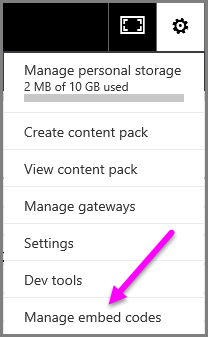
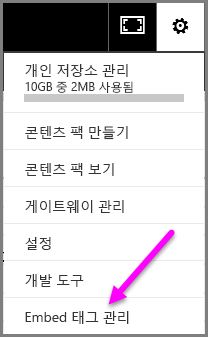
commit translated contents

diff --git a/powerbi-docs/consumer/mobile/mobile-app-windows-10-ssrs-kpis-mobile-reports.md b/powerbi-docs/consumer/mobile/mobile-app-windows-10-ssrs-kpis-mobile-reports.md
@@ -5,22 +5,22 @@ author: paulinbar
 ms.service: powerbi
 ms.subservice: powerbi-mobile
 ms.topic: conceptual
-ms.date: 03/09/2020
+ms.date: 05/19/2020
 ms.author: painbar
-ms.openlocfilehash: 67daafc0938216b135b31d3190c191402e9a10de
-ms.sourcegitcommit: 7aa0136f93f88516f97ddd8031ccac5d07863b92
+ms.openlocfilehash: 28353ec6d0b2f8a1f83544d63526748c621cb858
+ms.sourcegitcommit: 250242fd6346b60b0eda7a314944363c0bacaca8
 ms.translationtype: HT
 ms.contentlocale: ko-KR
-ms.lasthandoff: 05/05/2020
-ms.locfileid: "79435378"
+ms.lasthandoff: 05/20/2020
+ms.locfileid: "83694104"
 ---
 # <a name="view-on-premises-reports-and-kpis-in-the-power-bi-windows-app"></a>Power BI Windows 앱에서 온-프레미스 보고서 및 KPI 보기
 SQL Server 2016 Reporting Services에서 Windows 10용 Power BI 앱은 중요한 온-프레미스 비즈니스 정보에 대한 터치 기반의 라이브 모바일 액세스를 제공합니다. 
 
-![Reporting Services 모바일 보고서](././media/mobile-app-windows-10-ssrs-kpis-mobile-reports/power-bi-ssrs-mobile-report.png)
+![Reporting Services 모바일 보고서](media/mobile-app-windows-10-ssrs-kpis-mobile-reports/power-bi-ssrs-mobile-report.png)
 
 ## <a name="first-things-first"></a>먼저 수행할 중요한 작업
-SQL Server 2016 Enterprise Edition 모바일 보고서 게시자를 사용하여 [Reporting Services 모바일 보고서를 만들고](https://msdn.microsoft.com/library/mt652547.aspx)[Reporting Services 웹 포털](https://msdn.microsoft.com/library/mt637133.aspx)에 게시합니다. 웹 포털에 KPI를 만듭니다. 폴더에 정리하고 쉽게 찾을 수 있도록 즐겨찾기를 표시합니다. 
+SQL Server 2016 Enterprise Edition 모바일 보고서 게시자를 사용하여 [Reporting Services 모바일 보고서를 만들고](/sql/reporting-services/mobile-reports/create-mobile-reports-with-sql-server-mobile-report-publisher)[Reporting Services 웹 포털](/sql/reporting-services/web-portal-ssrs-native-mode)에 게시합니다. 웹 포털에 KPI를 만듭니다. 폴더에 정리하고 쉽게 찾을 수 있도록 즐겨찾기를 표시합니다. 
 
 그런 다음, Windows 10용 Power BI 앱에서 폴더에 정리되어 있거나 즐겨찾기에 모아놓은 KPS, 모바일 보고서 및 Power BI 고보서를 봅니다. 
 
@@ -34,18 +34,18 @@ SQL Server 2016 Enterprise Edition 모바일 보고서 게시자를 사용하여
 Reporting Services 웹 포털에 대한 액세스가 없더라도, Reporting Services 모바일 보고서의 기능을 탐색할 수 있습니다.
 
 1. Windows 10 디바이스에서 Power BI 앱을 엽니다.
-2. 왼쪽 위 모퉁이에서 전역 탐색 단추 ![전역 탐색 단추](././media/mobile-app-windows-10-ssrs-kpis-mobile-reports/powerbi_windows10_options_icon.png) 를 탭합니다.
-3. **설정** 아이콘 ![설정 아이콘](./././media/mobile-app-windows-10-ssrs-kpis-mobile-reports/power-bi-settings-icon.png)을 탭하고 **서버에 연결**을 마우스 오른쪽 단추로 클릭하거나 탭한 채로 유지한 다음 **샘플 보기**를 탭합니다.
+2. 왼쪽 위 모퉁이에서 전역 탐색 단추 ![전역 탐색 단추](media/mobile-app-windows-10-ssrs-kpis-mobile-reports/powerbi_windows10_options_icon.png) 를 탭합니다.
+3. **설정** 아이콘 ![설정 아이콘](media/mobile-app-windows-10-ssrs-kpis-mobile-reports/power-bi-settings-icon.png)을 탭하고 **서버에 연결**을 마우스 오른쪽 단추로 클릭하거나 탭한 채로 유지한 다음 **샘플 보기**를 탭합니다.
    
-   ![SSRS 샘플 보기](./media/mobile-app-windows-10-ssrs-kpis-mobile-reports/power-bi-win10-connect-ssrs-samples.png)
+   ![SSRS 샘플 보기](media/mobile-app-windows-10-ssrs-kpis-mobile-reports/power-bi-win10-connect-ssrs-samples.png)
 4. 소매 보고서 또는 판매 보고서 폴더를 열어 KPI 및 모바일 보고서를 탐색합니다.
    
-   ![샘플 KPI 및 모바일 보고서](./media/mobile-app-windows-10-ssrs-kpis-mobile-reports/power-bi-win10-ssrs-sample-kpis.png)
+   ![샘플 KPI 및 모바일 보고서](media/mobile-app-windows-10-ssrs-kpis-mobile-reports/power-bi-win10-ssrs-sample-kpis.png)
 
 KPI 및 모바일 보고서와 상호 작용할 샘플을 찾아봅니다.
 
 ## <a name="connect-to-a-reporting-services-report-server"></a>Reporting Services 보고서 서버에 연결
-1. 탐색 창의 아래쪽에서 **설정** ![설정 아이콘](./././media/mobile-app-windows-10-ssrs-kpis-mobile-reports/power-bi-settings-icon.png)을 탭합니다.
+1. 탐색 창의 아래쪽에서 **설정** ![설정 아이콘](media/mobile-app-windows-10-ssrs-kpis-mobile-reports/power-bi-settings-icon.png)을 탭합니다.
 2. **서버에 연결**을 탭합니다.
 3. 서버 주소, 사용자 이름, 암호를 입력합니다. 서버 주소에 대해 다음 형식을 사용합니다.
    
@@ -61,30 +61,33 @@ KPI 및 모바일 보고서와 상호 작용할 샘플을 찾아봅니다.
    
    이제 탐색 창에 서버가 표시됩니다.
    
-   ![탐색 창의 서버](./media/mobile-app-windows-10-ssrs-kpis-mobile-reports/power-bi-ssrs-mobile-report-server.png)
+   ![탐색 창의 서버](media/mobile-app-windows-10-ssrs-kpis-mobile-reports/power-bi-ssrs-mobile-report-server.png)
    
    >[!TIP]
-   >언제든지 전역 탐색 단추 ![전역 탐색 단추](././media/mobile-app-windows-10-ssrs-kpis-mobile-reports/powerbi_windows10_options_icon.png)를 탭하면 Power BI 서비스에서 Reporting Services 모바일 보고서와 대시보드 간에 이동할 수 있습니다. 
+   >언제든지 전역 탐색 단추 ![전역 탐색 단추](media/mobile-app-windows-10-ssrs-kpis-mobile-reports/powerbi_windows10_options_icon.png)를 탭하면 Power BI 서비스에서 Reporting Services 모바일 보고서와 대시보드 간에 이동할 수 있습니다. 
    > 
+
+   >[!NOTE]
+   >사용자 지정 포트가 구성된 보고서 서버는 지원되지 않으며 Power BI Windows 앱에서 액세스할 수 없습니다. 
 
 ## <a name="view-reporting-services-kpis-and-mobile-reports-in-the-power-bi-app"></a>Power BI 앱에서 Reporting Services KPI와 모바일 보고서 보기
 Reporting Services KPI, 모바일 보고서 및 Power BI 보고서(미리 보기)는 Reporting Services 웹 포털에서와 동일한 폴더에 표시됩니다.
 
-![보고서 폴더](./media/mobile-app-windows-10-ssrs-kpis-mobile-reports/power-bi-ssrs-mobile-report-folders.png)
+![보고서 폴더](media/mobile-app-windows-10-ssrs-kpis-mobile-reports/power-bi-ssrs-mobile-report-folders.png)
 
 * 포커스 모드로 보려면 KPI를 누릅니다.
   
-    ![포커스 모드의 KPI](./media/mobile-app-windows-10-ssrs-kpis-mobile-reports/power-bi-ssrs-mobile-report-kpis.png)
-* 모바일 보고서를 탭하여 Power BI 앱에서 열고 상호 작용합니다.
+    ![포커스 모드의 KPI](media/mobile-app-windows-10-ssrs-kpis-mobile-reports/power-bi-ssrs-mobile-report-kpis.png)
+* 모바일 보고서를 눌러서 열고 Power BI 앱에서 상호 작용합니다.
   
-    ![Reporting Services 모바일 보고서](././media/mobile-app-windows-10-ssrs-kpis-mobile-reports/power-bi-ssrs-mobile-report.png)
+    ![Reporting Services 모바일 보고서](media/mobile-app-windows-10-ssrs-kpis-mobile-reports/power-bi-ssrs-mobile-report.png)
 
 ## <a name="view-your-favorite-kpis-and-reports"></a>즐겨찾는 KPI 및 보고서 보기
 Reporting Services 웹 포털에 KPI, 모바일 보고서 및 Power BI 보고서를 즐겨찾기로 표시해 놓으면 Windows 10 디바이스에서 Power BI 즐겨찾기 대시보드와 보고서를 통해 한 폴더에서 편리하게 볼 수 있습니다.
 
 * **즐겨찾기**를 누릅니다.
   
-   ![즐겨찾기 아이콘](./media/mobile-app-windows-10-ssrs-kpis-mobile-reports/power-bi-ssrs-mobile-report-favorite-menu.png)
+   ![즐겨찾기 아이콘](media/mobile-app-windows-10-ssrs-kpis-mobile-reports/power-bi-ssrs-mobile-report-favorite-menu.png)
   
    웹 포털의 즐겨찾기가 이 페이지에 모두 있습니다.
   
@@ -93,20 +96,19 @@ Reporting Services 웹 포털에 KPI, 모바일 보고서 및 Power BI 보고서
 ## <a name="remove-a-connection-to-a-report-server"></a>보고서 서버에 대한 연결을 제거합니다.
 Power BI 모바일 앱에서 한 번에 하나의 보고서 서버에 연결될 수 있습니다. 다른 서버에 연결하려는 경우 현재 서버에서 분리해야 합니다.
 
-1. 탐색 창의 아래쪽에서 **설정** ![설정 아이콘](./././media/mobile-app-windows-10-ssrs-kpis-mobile-reports/power-bi-settings-icon.png)을 탭합니다.
+1. 탐색 창의 아래쪽에서 **설정** ![설정 아이콘](media/mobile-app-windows-10-ssrs-kpis-mobile-reports/power-bi-settings-icon.png)을 탭합니다.
 2. 연결하지 않을 서버 이름을 탭한 채로 있습니다.
 3. **서버 제거**를 탭합니다.
    
-    ![서버 제거](./media/mobile-app-windows-10-ssrs-kpis-mobile-reports/power-bi-windows-10-ssrs-remove-server-menu.png)
+    ![서버 제거](media/mobile-app-windows-10-ssrs-kpis-mobile-reports/power-bi-windows-10-ssrs-remove-server-menu.png)
 
 ## <a name="create-reporting-services-mobile-reports-and-kpis"></a>Reporting Services 모바일 보고서 및 KPI 만들기
 Power BI 모바일 앱에서 Reporting Services KPI와 모바일 보고서를 만들지 않습니다. SQL Server 모바일 보고서 게시자 및 SQL Server 2016 Reporting Services 웹 포털에서 만듭니다.
 
-* [Reporting Services 모바일 보고서를 만들](https://msdn.microsoft.com/library/mt652547.aspx)어서, Reporting Services 웹 포털에 게시합니다.
-* [Reporting Services 웹 포털에서 KPI](https://msdn.microsoft.com/library/mt683632.aspx)를 만듭니다.
+* [Reporting Services 모바일 보고서를 만들](/sql/reporting-services/mobile-reports/create-mobile-reports-with-sql-server-mobile-report-publisher)어서, Reporting Services 웹 포털에 게시합니다.
+* [Reporting Services 웹 포털에서 KPI](/sql/reporting-services/working-with-kpis-in-reporting-services)를 만듭니다.
 
 ## <a name="next-steps"></a>다음 단계
 * [Windows 10용 Power BI 모바일 앱 시작](mobile-windows-10-phone-app-get-started.md)  
 * [Power BI란?](../../fundamentals/power-bi-overview.md)  
-* 질문이 있으신가요? [Power BI 커뮤니티에 질문합니다.](https://community.powerbi.com/)
-
+* 궁금한 점이 더 있나요? [Power BI 커뮤니티에 질문합니다.](https://community.powerbi.com/)

diff --git a/powerbi-docs/guidance/whitepapers.md b/powerbi-docs/guidance/whitepapers.md
@@ -6,33 +6,32 @@ ms.reviewer: ''
 ms.service: powerbi
 ms.subservice: powerbi-service
 ms.topic: conceptual
-ms.date: 05/19/2020
+ms.date: 05/27/2020
 ms.author: maggies
-ms.openlocfilehash: 98b5323efa8b6c6c0e1d6f1dbab640fe5f4cae4c
-ms.sourcegitcommit: 250242fd6346b60b0eda7a314944363c0bacaca8
+ms.openlocfilehash: f0bf8edc3c954bf5c79d76c1a3bdba1a08ae40ae
+ms.sourcegitcommit: a7b142685738a2f26ae0a5fa08f894f9ff03557b
 ms.translationtype: MT
 ms.contentlocale: ko-KR
-ms.lasthandoff: 05/20/2020
-ms.locfileid: "83693976"
+ms.lasthandoff: 05/28/2020
+ms.locfileid: "84121091"
 ---
 # <a name="whitepapers-for-power-bi"></a>Power BI용 백서
 
 백서를 통해 Power BI 항목을 보다 자세히 탐색할 수 있습니다. 여기에서 Power BI에 대해 제공되는 백서 목록을 확인할 수 있습니다.
 
-| 백서 | 설명 | Date |
+| 백서 | Description | 날짜 |
 | --- | --- | --- |
 | [Power BI Enterprise 배포 계획](https://aka.ms/PBIEnterpriseDeploymentWP) |이 업데이트 된 기술 백서는 잘 작동 하 고 안전한 조직 Power BI 배포에 대 한 고려 사항 및 모범 사례를 간략하게 설명 합니다. | 2020년 5월 |
 | [Power BI 및 데이터 흐름](https://go.microsoft.com/fwlink/?linkid=2034388&clcid=0x409)| 이 백서에서는 데이터 흐름의 기술 정보를 자세히 설명하고 데이터 흐름의 특징 및 기능의 기반이 되는 역량과 이니셔티브를 설명합니다. | 2018년 11월 |
 | [Microsoft Power BI 프리미엄](https://aka.ms/pbipremiumwhitepaper) |시작될 때의 모습과 확대 방식 등, Power BI 프리미엄을 설명합니다. | 2017년 10월 |
-| [Power BI Premium 계획 및 배포](whitepaper-powerbi-premium-deployment.md)| 이 문서는 잘 정의된 워크로드를 위한 프리미엄 용량을 계획하고 배포하기 위한 지침과 모범 사례를 제공합니다.| 2019년 3월 |
-| [Power BI 프리미엄을 사용한 Embedded Analytics에 대한 용량 계획](https://aka.ms/pbiewhitepaper) |이 문서는 앱 개발자/ISV에게 해당 비즈니스에 대한 가장 적절한 용량을 결정하기 위한 지침을 제공합니다. | 2017년 10월 |
+| [Power BI Premium 계획 및 배포](whitepaper-powerbi-premium-deployment.md)| 이 백서의 내용은 일반 지침에 통합 되었습니다. 잘 정의 된 작업을 위해 프리미엄 용량을 계획 하 고 배포 하는 방법에 대 한 지침 및 모범 사례는 링크를 참조 하세요.| 2019년 3월 |
 | [Power BI Report Server에 대한 용량 계획 지침](../report-server/capacity-planning.md) |이 문서는 보고서 서버에 대한 다양한 워크로드의 다양한 부하 테스트 실행 결과를 공유하여 Power BI 보고서 서버의 용량 계획에 대한 지침을 제공하려고 합니다. | 2018년 3월 |
 | [보안](../admin/service-admin-power-bi-security.md) |Power BI 내 보안에 대한 자세한 설명을 제공합니다. | 2019년 3월 |
 | [Azure Active Directory B2B를 사용하여 외부 게스트 사용자에게 Power BI 콘텐츠 배포](../guidance/whitepaper-azure-b2b-power-bi.md)|이 문서에서는 AAD B2B(Azure Active Directory Business-to-business)의 통합을 사용하여 콘텐츠를 조직 외부 사용자에게 배포하는 방법을 간략히 설명합니다.| 2019년 3월 |
 | [Power BI를 사용한 고급 분석](https://info.microsoft.com/advanced-analytics-with-power-bi.html?Is=Website) |예측 분석, 사용자 지정 시각화, R 통합 및 데이터 분석 식을 비롯한 Power BI의 고급 분석 기능을 설명합니다. | 2017년 2월 |
 | [양방향 필터링](../transform-model/desktop-bidirectional-filtering.md) |Power BI Desktop에서 양방향 교차 필터링에 대해 설명합니다(이 백서에서는 SQL Server Analysis Services 2016에 대해서도 다루며 둘 다 동작은 동일합니다). | 2018년 7월 |
 | [SQL Server 2016 Analysis Services의 DirectQuery](https://blogs.msdn.microsoft.com/analysisservices/2017/04/06/directquery-in-sql-server-2016-analysis-services-whitepaper/) |SQL Server 2016에서 DirectQuery는 획기적으로 향상된 속도 및 성능을 제공하도록 다시 설계되었지만 이해하고 구현하기가 더 복잡해졌습니다. | 2017년 1월 |
-| [Power BI 및 SAP BW](https://aka.ms/powerbiandsapbw)| 이 아티클에서는 SAP 고객이 Power BI를 기존 SAP BW(비즈니스 웨어하우스) 시스템에 연결하여 활용하는 방법에 대해 설명합니다.| 2018년 2월 |
+| [Power BI 및 SAP BW](https://aka.ms/powerbiandsapbw)| 이 아티클에서는 SAP 고객이 Power BI를 기존 SAP BW(비즈니스 웨어하우스) 시스템에 연결하여 활용하는 방법에 대해 설명합니다. 11 월 2019에 업데이트 되었습니다.| 2019년 11월 |
 | [테이블 형식 BI 의미 체계 모델 보안](https://download.microsoft.com/download/D/2/0/D20E1C5F-72EA-4505-9F26-FEF9550EFD44/Securing%20the%20Tabular%20BI%20Semantic%20Model.docx) |이 문서에서는 테이블 형식 BI 의미 체계 및 Power BI의 보안 모델을 소개합니다. 네트워크 보안 컨텍스트에서 작동하는 모델에 연결하기 위해 역할을 만들고, 동적 보안을 구현하고, 가장 설정을 구성하고, 역할을 관리하고, 메서드를 선택하는 방법을 알아봅니다. | 2016년 4월 |
 | [Power BI 및 GDPR](https://aka.ms/power-bi-gdpr-whitepaper)| 이 링크를 통해 Microsoft Power BI GDPR 백서를 비롯한 Service Trust Portal의 백서 목록으로 이동합니다. | 2018년 4월 |
 

diff --git a/powerbi-docs/collaborate-share/service-embed-report-microsoft-teams.md b/powerbi-docs/collaborate-share/service-embed-report-microsoft-teams.md
@@ -10,12 +10,12 @@ ms.subservice: powerbi-service
 ms.topic: conceptual
 LocalizationGroup: Share your work
 ms.date: 04/27/2020
-ms.openlocfilehash: c424572cf222e4b2f65354e7b9a0959b60a56fca
-ms.sourcegitcommit: bfc2baf862aade6873501566f13c744efdd146f3
+ms.openlocfilehash: 7034bd544ee9c14dd5f32df9335faefd4221e4ac
+ms.sourcegitcommit: 250242fd6346b60b0eda7a314944363c0bacaca8
 ms.translationtype: HT
 ms.contentlocale: ko-KR
-ms.lasthandoff: 05/13/2020
-ms.locfileid: "83143766"
+ms.lasthandoff: 05/20/2020
+ms.locfileid: "83693898"
 ---
 # <a name="embed-reports-in-microsoft-teams-with-the-power-bi-tab"></a>Power BI 탭을 사용하여 Microsoft Teams에 보고서 포함
 
@@ -28,11 +28,12 @@ Microsoft Teams의 업데이트된 Power BI 탭을 사용하여 Microsoft Teams 
 - 사용자에게 Power BI Pro 라이선스가 있거나, 보고서가 Power BI 라이선스가 있는 [Power BI 프리미엄 용량(EM 또는 P SKU)](../admin/service-premium-what-is.md)에 포함되어 있습니다.
 - Microsoft Teams에 Power BI 탭이 있습니다.
 - 사용자가 Power BI 서비스에 로그인하여 보고서를 사용하기 위해 Power BI 라이선스를 활성화했습니다.
-- 사용자에게 보고서를 볼 수 있는 권한이 있어야 합니다.
+- Microsoft Teams에서 Power BI 탭을 사용하여 보고서를 추가하려면 보고서를 호스트하는 작업 영역에서 뷰어 이상의 역할이 있어야 합니다. 다른 역할에 대한 자세한 내용은 [새 작업 영역의 역할](service-new-workspaces.md#roles-in-the-new-workspaces)을 참조하세요.
+- Microsoft Teams의 Power BI 탭에서 보고서를 보려면 사용자에게 보고서를 볼 수 있는 권한이 있어야 합니다.
 
 또한 **링크 미리 보기**가 작동하려면 다음을 확인해야 합니다.
 - 사용자가 Microsoft Teams의 Power BI 탭을 사용하기 위한 요구 사항을 충족시킵니다.
-- 사용자가 Power BI 봇 서비스에 로그인했습니다. 
+- 사용자가 Power BI 서비스에 로그인했습니다. 
 
 
 ## <a name="embed-your-report"></a>보고서 포함
@@ -90,12 +91,12 @@ Microsoft Teams의 업데이트된 Power BI 탭을 사용하여 Microsoft Teams 
 
 ## <a name="grant-access-to-reports"></a>보고서에 액세스 권한 부여
 
-Microsoft Teams에 보고서를 포함하거나 항목에 대한 링크를 보내는 경우 사용자에게 보고서를 볼 수 있는 권한이 자동으로 부여되지 않습니다. [사용자가 Power BI에서 보고서를 볼 수 있도록 허용](service-share-dashboards.md)해야 합니다. 해당 팀의 Office 365 그룹을 사용하면 더 쉬워집니다. 
+Microsoft Teams에 보고서를 포함하거나 항목에 대한 링크를 보내는 경우 사용자에게 보고서를 볼 수 있는 권한이 자동으로 부여되지 않습니다. [사용자가 Power BI에서 보고서를 볼 수 있도록 허용](service-share-dashboards.md)해야 합니다. 해당 팀의 Microsoft 365 그룹을 사용하면 더 쉬워집니다.
 
 > [!IMPORTANT]
 > Power BI 서비스 내에서 보고서를 볼 수 있는 사람이 누구인지 확인하고 목록에 없는 사람에게 액세스 권한을 부여합니다.
 
-팀의 모든 사용자가 보고서에 액세스할 수 있도록 하는 한 가지 방법은 보고서를 Power BI의 단일 작업 영역에 저장하고 해당 작업 영역에 대한 액세스 권한을 팀의 Office 365 그룹에 부여하는 것입니다.
+팀의 모든 사용자가 보고서에 액세스할 수 있도록 하는 한 가지 방법은 보고서를 Power BI의 단일 작업 영역에 저장하고 해당 작업 영역에 대한 액세스 권한을 팀의 Microsoft 365 그룹에 부여하는 것입니다.
 
 ## <a name="link-previews"></a>링크 미리 보기 
 
@@ -123,7 +124,7 @@ Power BI 보고서 탭을 Teams에 추가하면 Teams에서 보고서에 대한 
 - Power BI는 Microsoft Teams에서 지원하는 것과 동일한 지역화된 언어를 지원하지 않습니다. 결과적으로 포함된 보고서 내에 적절한 지역화가 표시되지 않을 수 있습니다.
 - Power BI 대시보드는 Microsoft Teams의 Power BI 탭에 포함될 수 없습니다.
 - Power BI 라이선스 또는 보고서에 대한 권한이 없는 사용자에게는 "콘텐츠를 사용할 수 없습니다."라는 메시지가 표시됩니다.
-- Internet Explorer 10을 사용하는 경우 문제가 발생할 수 있습니다. <!--You can look at the [browsers support for Power BI](../consumer/end-user-browsers.md) and for [Office 365](https://products.office.com/office-system-requirements#Browsers-section). -->
+- Internet Explorer 10을 사용하는 경우 문제가 발생할 수 있습니다. <!--You can look at the [browsers support for Power BI](../consumer/end-user-browsers.md) and for [Microsoft 365](https://products.office.com/office-system-requirements#Browsers-section). -->
 - [URL 필터](service-url-filters.md)는 Microsoft Teams의 Power BI 탭에서 지원되지 않습니다.
 - 국가 클라우드에서는 새 Power BI 탭을 사용할 수 없습니다. Power BI 앱에서 새 작업 영역 환경의 작업 영역 또는 보고서를 지원하지 않는 이전 버전을 사용할 수 있습니다. 
 - 탭이 저장되면 탭 설정을 통해 탭 이름을 변경할 수 없습니다. [이름 바꾸기] 옵션을 사용하여 변경합니다.

diff --git a/powerbi-docs/connect-data/service-connect-to-files-in-app-workspace-onedrive-for-business.md b/powerbi-docs/connect-data/service-connect-to-files-in-app-workspace-onedrive-for-business.md
@@ -8,18 +8,18 @@ ms.topic: conceptual
 ms.date: 04/15/2019
 ms.author: maggies
 LocalizationGroup: Share your work
-ms.openlocfilehash: 4995671fe5a3a4af0e74ce97d3227f73f005dc3f
-ms.sourcegitcommit: bfc2baf862aade6873501566f13c744efdd146f3
+ms.openlocfilehash: 62d0282af47b0d57a0b9ac307b422191b440b45c
+ms.sourcegitcommit: a72567f26c1653c25f7730fab6210cd011343707
 ms.translationtype: HT
 ms.contentlocale: ko-KR
-ms.lasthandoff: 05/13/2020
-ms.locfileid: "83348531"
+ms.lasthandoff: 05/19/2020
+ms.locfileid: "83564084"
 ---
 # <a name="connect-to-files-stored-in-onedrive-for-your-power-bi-workspace"></a>Power BI 작업 영역의 OneDrive에 저장된 파일에 연결
 [Power BI에서 작업 영역을 만든](../collaborate-share/service-create-distribute-apps.md) 후에 Power BI 작업 영역의 비즈니스용 OneDrive에 Excel, CSV, Power BI Desktop 파일을 저장할 수 있습니다. OneDrive에 저장한 파일을 계속 업데이트할 수 있습니다. 이러한 업데이트는 파일에 따라 Power BI 보고서 및 대시보드에 자동으로 반영됩니다. 
 
 > [!NOTE]
-> 새 작업 영역 환경에서 Power BI 작업 영역과 Office 365 그룹 간의 관계를 변경합니다. 새 작업 영역을 하나 만들 때마다 Office 365 그룹을 자동으로 만드는 것은 아닙니다. [새 작업 영역 만들기](../collaborate-share/service-create-the-new-workspaces.md)를 참조하세요.
+> 새 작업 영역 환경에서 Power BI 작업 영역과 Microsoft 365 그룹 간의 관계를 변경합니다. 새 작업 영역을 하나 만들 때마다 Microsoft 365 그룹이 자동으로 만들어지지는 않습니다. [새 작업 영역 만들기](../collaborate-share/service-create-the-new-workspaces.md)를 참조하세요.
 
 작업 영역에 파일을 추가하는 과정은 다음 두 단계로 이루어집니다. 
 
@@ -34,10 +34,10 @@ ms.locfileid: "83348531"
 1. Power BI 서비스에서 작업 영역 옆에 있는 화살표를 선택하고 작업 영역 이름 옆에 있는 줄임표( **...** )를 선택합니다. 
    
    ![](media/service-connect-to-files-in-app-workspace-onedrive-for-business/power-bi-app-ellipsis.png)
-2. **파일**을 선택하여 Office 365에서 작업 영역의 비즈니스용 OneDrive를 엽니다.
+2. **파일**을 선택하여 Microsoft 365에서 작업 영역의 비즈니스용 OneDrive를 엽니다.
    
    > [!NOTE]
-   > 작업 영역 메뉴에 **파일**이 표시되지 않는 경우, **구성원**을 선택하여 작업 영역의 비즈니스용 OneDrive를 엽니다. 거기에서 **일**을 선택합니다. Office 365가 앱의 그룹 작업 영역 파일에 대한 OneDrive 스토리지 위치를 설정합니다. 이 프로세스는 시간이 약간 걸릴 수 있습니다. 
+   > 작업 영역 메뉴에 **파일**이 표시되지 않는 경우, **구성원**을 선택하여 작업 영역의 비즈니스용 OneDrive를 엽니다. 거기에서 **파일**을 선택합니다. Microsoft 365가 앱의 그룹 작업 영역 파일에 대한 OneDrive 스토리지 위치를 설정합니다. 이 프로세스에는 다소 시간이 걸릴 수 있습니다.
    > 
    > 
 3. 여기서 작업 영역의 비즈니스용 OneDrive에 파일을 업로드할 수 있습니다. **업로드**를 선택하고, 자신의 파일로 이동합니다.
@@ -52,13 +52,13 @@ ms.locfileid: "83348531"
 
 ### <a name="import-or-connect-to-the-files-in-your-workspace"></a>작업 영역의 파일 가져오기 또는 연결
 1. Power BI에서 작업 영역으로 전환하여 작업 영역 이름이 왼쪽 위에 표시되도록 합니다. 
-2. 탐색 창의 맨 아래에서 **데이터 가져오기**를 선택합니다. 
+2. 탐색 창 아래쪽에서 **데이터 가져오기**를 선택합니다. 
    
    ![](media/service-connect-to-files-in-app-workspace-onedrive-for-business/power-bi-app-get-data-button.png)
-3. **파일**상자에서 **가져오기**를 선택합니다.
+3. **파일** 상자에서 **가져오기**를 선택합니다.
    
    ![](media/service-connect-to-files-in-app-workspace-onedrive-for-business/pbi_getfiles.png)
-4. **OneDrive** - ‘작업 영역 이름’을 선택합니다. 
+4. **OneDrive** - ‘작업 영역 이름’을 선택합니다.
    
     ![](media/service-connect-to-files-in-app-workspace-onedrive-for-business/pbi_grp_one_drive_shrpt.png)
 5. 원하는 파일을 선택하고 **연결**을 선택합니다.

diff --git a/powerbi-docs/connect-data/desktop-data-sources.md b/powerbi-docs/connect-data/desktop-data-sources.md
@@ -6,15 +6,15 @@ ms.reviewer: ''
 ms.service: powerbi
 ms.subservice: powerbi-desktop
 ms.topic: conceptual
-ms.date: 04/16/2020
+ms.date: 05/19/2020
 ms.author: davidi
 LocalizationGroup: Connect to data
-ms.openlocfilehash: 5fb1b96f46761bf0c724abb8e36de8bb93634fdc
-ms.sourcegitcommit: bfc2baf862aade6873501566f13c744efdd146f3
+ms.openlocfilehash: f84fcc4b32468ab8ffddbb593ae97ea8fb20442a
+ms.sourcegitcommit: 250242fd6346b60b0eda7a314944363c0bacaca8
 ms.translationtype: HT
 ms.contentlocale: ko-KR
-ms.lasthandoff: 05/13/2020
-ms.locfileid: "83347657"
+ms.lasthandoff: 05/20/2020
+ms.locfileid: "83693612"
 ---
 # <a name="data-sources-in-power-bi-desktop"></a>Power BI Desktop의 데이터 원본
 
@@ -99,6 +99,7 @@ Power BI Desktop을 사용하면 다양한 원본의 데이터에 연결할 수 
 * InterSystems IRIS(베타)
 * Jethro(베타)
 * Kyligence
+* Linkar PICK Style/MultiValue 데이터베이스(베타)
 * MarkLogic
 
 > [!NOTE]
@@ -139,6 +140,7 @@ Power BI Desktop을 사용하면 다양한 원본의 데이터에 연결할 수 
 * HDInsight 대화형 쿼리
 * Azure Data Explorer(Kusto)
 * Azure Cost Management
+* Azure Time Series Insights(베타)
 
 
 다음 그림은 **Azure**에 대한 **데이터 가져오기** 창을 보여 줍니다.
@@ -187,12 +189,13 @@ Power BI Desktop을 사용하면 다양한 원본의 데이터에 연결할 수 
 * Industrial App Store
 * Intune Data Warehouse(베타)
 * Microsoft Graph 보안(베타)
+* Power BI용 Projectplace(베타)
 * Product Insights(베타)
 * Quick Base
 * TeamDesk(베타)
-* Workplace Analytics(베타)
-* Power BI용 Projectplace(베타)
 * Webtrends Analytics(베타)
+* Witivio(베타)
+* Workplace Analytics(베타)
 * Zoho Creator(베타)
 
 다음 그림은 **온라인 서비스**에 대한 **데이터 가져오기** 창을 보여 줍니다.
@@ -215,7 +218,7 @@ Power BI Desktop을 사용하면 다양한 원본의 데이터에 연결할 수 
 * Python 스크립트
 * ODBC
 * OLE DB
-* BI360 - 예산 및 재무 보고(베타)
+* Solver
 * Cognite Data Fusion(베타)
 * FHIR
 * Information Grid(베타)
@@ -224,15 +227,14 @@ Power BI Desktop을 사용하면 다양한 원본의 데이터에 연결할 수 
 * Paxata
 * QubolePresto(베타)
 * Roamler(베타)
+* Shortcuts Business Insights(베타)
 * Siteimprove
 * SurveyMonkey(베타)
+* Tenforce(스마트) 목록
 * TIBCO(R) 데이터 가상화(베타)
 * Vena(베타)
 * Workforce Dimensions(베타)
 * Zucchetti HR Infinity(베타)
-* Tenforce(스마트) 목록
-* Shortcuts Business Insights(베타)
-* Vessel Insight(베타)
 * 빈 쿼리
 
 다음 그림은 **기타**에 대한 **데이터 가져오기** 창을 보여 줍니다.

diff --git a/powerbi-docs/create-reports/service-item-contact.md b/powerbi-docs/create-reports/service-item-contact.md
@@ -9,12 +9,12 @@ ms.topic: conceptual
 ms.date: 10/08/2019
 ms.author: lukaszp
 LocalizationGroup: Common tasks
-ms.openlocfilehash: 3f0d60bb780b980d3840072568e30d6b4e09da34
-ms.sourcegitcommit: bfc2baf862aade6873501566f13c744efdd146f3
+ms.openlocfilehash: 5330b4c42794f0fa3110cef57f6d62ead0381e52
+ms.sourcegitcommit: a72567f26c1653c25f7730fab6210cd011343707
 ms.translationtype: HT
 ms.contentlocale: ko-KR
-ms.lasthandoff: 05/13/2020
-ms.locfileid: "83349013"
+ms.lasthandoff: 05/19/2020
+ms.locfileid: "83561791"
 ---
 # <a name="set-contact-information-for-reports-and-dashboards-in-the-power-bi-service"></a>Power BI 서비스의 보고서 및 대시보드에 대한 연락처 정보 설정
 이 문서에서는 Power BI 서비스에서 대시보드 또는 보고서에 대한 연락처 정보를 설정하는 방법을 설명합니다.
@@ -24,11 +24,11 @@ ms.locfileid: "83349013"
 
 항목에 대한 연락처에 여러 사용자 또는 그룹을 추가할 수 있습니다. 예:
 * 개인
-* Office 365 그룹
+* Microsoft 365 그룹
 * 이메일 사용 보안 그룹
 * 배포 목록
 
-기본적으로 새 보고서 또는 대시보드를 만드는 사람이 해당 항목에 대한 연락처입니다. 값을 설정하면 기본값을 재정의합니다. 물론 연락처 목록에서 모든 사람 또는 그룹을 제거할 수 있습니다. 클래식 작업 영역에서 이렇게 하면 해당 작업 영역의 Office 365 그룹이 표시됩니다. 새 환경 작업 영역의 경우 [작업 영역 연락처 목록](../collaborate-share/service-create-the-new-workspaces.md#workspace-contact-list)이 사용 됩니다. 작업 영역 연락처 목록이 설정되지 않은 경우 작업 영역 관리자가 표시됩니다.
+기본적으로 새 보고서 또는 대시보드를 만드는 사람이 해당 항목에 대한 연락처입니다. 값을 설정하면 기본값을 재정의합니다. 물론 연락처 목록에서 모든 사람 또는 그룹을 제거할 수 있습니다. 클래식 작업 영역에서 이렇게 하면 해당 작업 영역의 Microsoft 365 그룹이 표시됩니다. 새 환경 작업 영역의 경우 [작업 영역 연락처 목록](../collaborate-share/service-create-the-new-workspaces.md#workspace-contact-list)이 사용 됩니다. 작업 영역 연락처 목록이 설정되지 않은 경우 작업 영역 관리자가 표시됩니다.
 
 연락처 정보는 항목을 보는 사용자에게 표시됩니다. 
 
